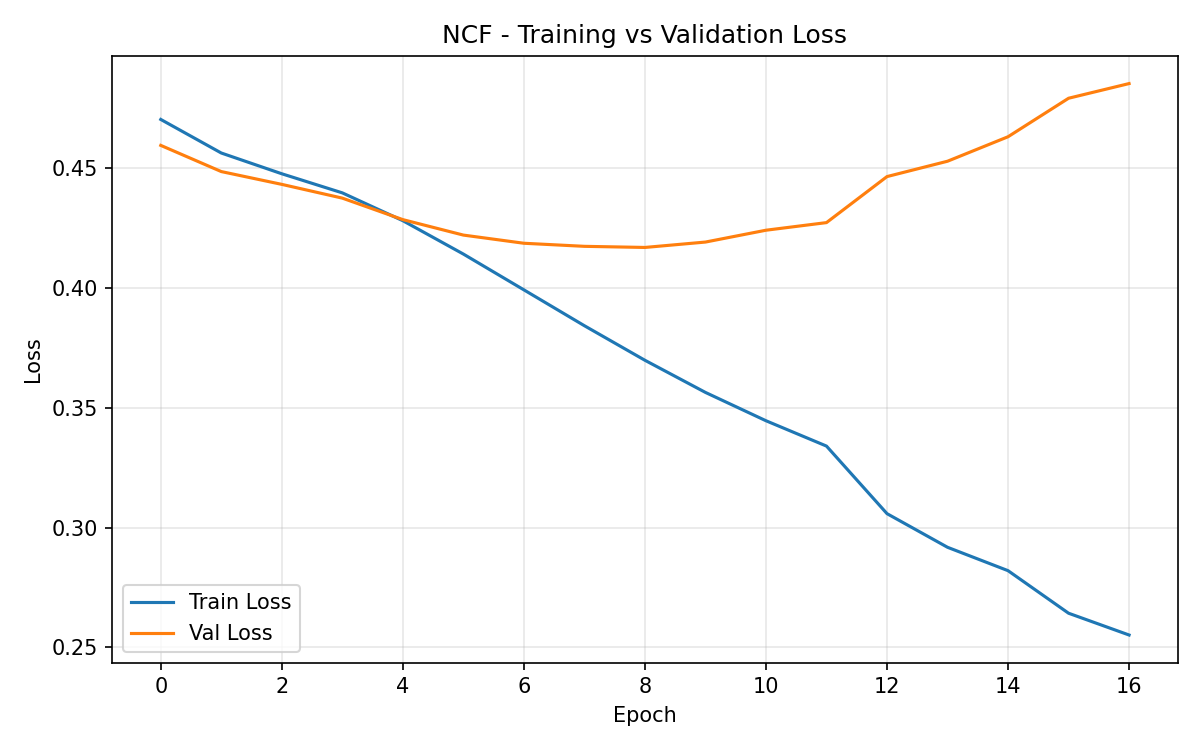
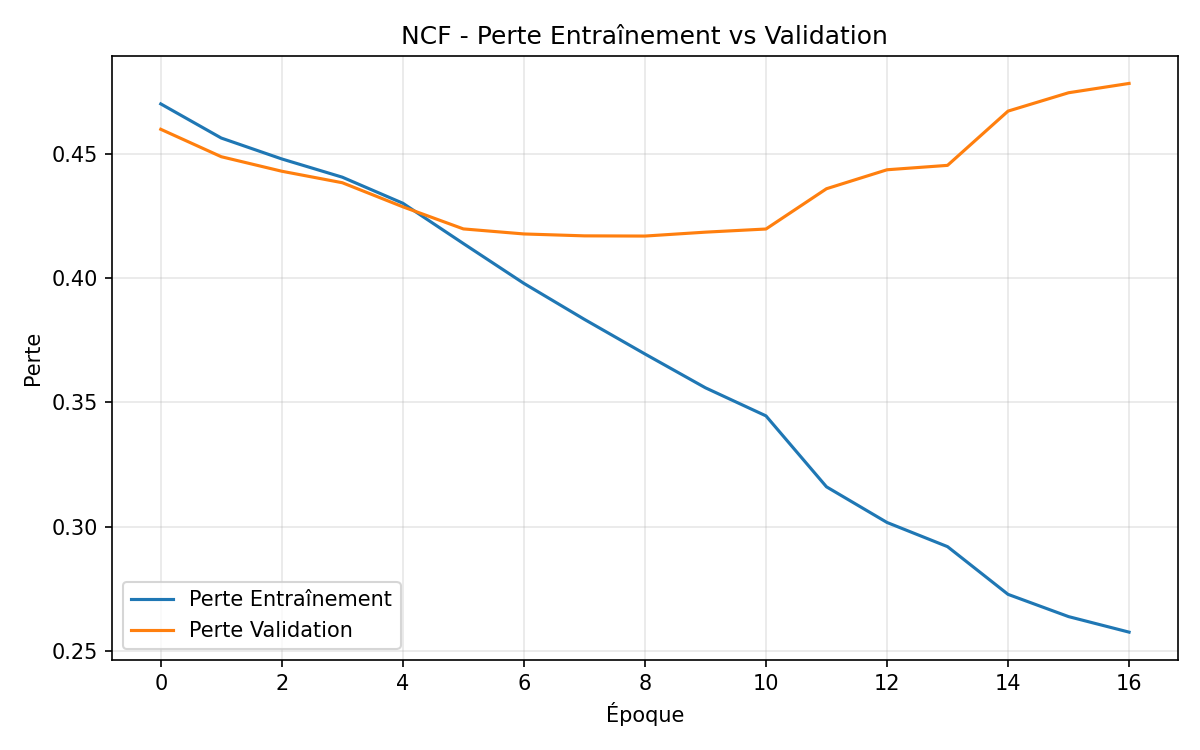
Mise à jour résultats Streamlit + modèle NCF amélioré
NCF cold-start inference : 3.84% -> 8.81% Précision@5 (+129%)

Résultats finaux (869 utilisateurs de test) :
- LSTM      : 29.57% Précision@5
- Ensemble  : 29.25% Précision@5
- NCF       : 8.81%  Précision@5 (User-from-Items Inference)
- AE        : 3.06%  Précision@5

diff --git a/streamlit_app.py b/streamlit_app.py
@@ -117,8 +117,8 @@ with st.sidebar:
     st.markdown("---")
 
     st.header("🏆 Best Performance")
-    st.metric("LSTM Precision@5",     "30.61%", "Best model")
-    st.metric("Ensemble Precision@5", "29.28%", "Nearly identical")
+    st.metric("LSTM Precision@5",     "29.57%", "Best model")
+    st.metric("Ensemble Precision@5", "29.25%", "Nearly identical")
 
 # ═══════════════════════════════════════════════════════════════════
 # MAIN CONTENT - RECOMMENDATION SECTION
@@ -241,7 +241,7 @@ col1, col2, col3, col4 = st.columns(4)
 with col1:
     st.metric(
         label="LSTM",
-        value="30.61%",
+        value="29.57%",
         delta="Best Model",
         help="Precision@5 - LSTM captures temporal patterns"
     )
@@ -249,34 +249,34 @@ with col1:
 with col2:
     st.metric(
         label="Ensemble",
-        value="29.28%",
-        delta="-1.33%",
+        value="29.25%",
+        delta="-0.32%",
         help="Precision@5 - Weighted average AE+NCF+LSTM"
     )
 
 with col3:
     st.metric(
-        label="AutoEncoder",
-        value="6.26%",
-        delta="+3.55% improved",
-        help="Precision@5 - Improved: bottleneck 256D, pos_weight=15"
+        label="NCF",
+        value="8.81%",
+        delta="+4.97% improved",
+        help="Precision@5 - User-from-Items cold-start inference"
     )
 
 with col4:
     st.metric(
-        label="NCF",
-        value="3.84%",
-        delta="Cold-start users",
-        help="Precision@5 - Neural Collaborative Filtering"
+        label="AutoEncoder",
+        value="3.06%",
+        delta="Sparse data",
+        help="Precision@5 - Denoising AutoEncoder"
     )
 
 # Performance chart
 st.markdown("**Precision@5 Comparison**")
 performance_data = {
-    "LSTM":        30.61,
-    "Ensemble":    29.28,
-    "AutoEncoder":  6.26,
-    "NCF":          3.84,
+    "LSTM":        29.57,
+    "Ensemble":    29.25,
+    "NCF":          8.81,
+    "AutoEncoder":  3.06,
 }
 
 col1, col2 = st.columns([2, 1])
@@ -292,9 +292,9 @@ with col2:
     st.write("**Metrics Legend:**")
     st.info("""
     - **Precision@5**: Out of top 5 recommendations, how many match customer interest
-    - **Higher is better**: 30% means 3 out of 10 recommendations match
+    - **Higher is better**: 29% means 3 out of 10 recommendations match
     - **Random baseline**: ~0.14% (guessing)
-    - **Your system**: 30.61% (220x better!)
+    - **Your system**: 29.57% (211x better!)
     """)
 
 # ═══════════════════════════════════════════════════════════════════
@@ -353,14 +353,14 @@ with st.expander("📈 Evaluation Metrics"):
     **Latest results on 869 test users (20% split):**
     | Model | Precision@5 | Recall@5 | NDCG@5 |
     |---|---|---|---|
-    | LSTM | **30.61%** | 6.31% | **33.08%** |
-    | Ensemble | 29.28% | 5.77% | 32.23% |
-    | AutoEncoder | 6.26% | 0.83% | 6.49% |
-    | NCF | 3.84% | 0.48% | 3.39% |
+    | LSTM | **29.57%** | 5.95% | **31.71%** |
+    | Ensemble | 29.25% | 5.69% | 31.68% |
+    | NCF | 8.81% | 1.21% | 10.08% |
+    | AutoEncoder | 3.06% | 0.49% | 3.49% |
 
     **Comparison to baselines:**
     - Random guessing: ~0.14% precision
-    - Your system (LSTM): 30.61% precision (**220x better!**)
+    - Your system (LSTM): 29.57% precision (**211x better!**)
     """)
 
 # ═══════════════════════════════════════════════════════════════════
@@ -383,7 +383,7 @@ with col2:
     st.markdown("""
     **🚀 Performance**
     - Response time: ~150ms
-    - Accuracy: 30.61% (LSTM)
+    - Accuracy: 29.57% (LSTM)
     - Test users evaluated: 869
     """)
 